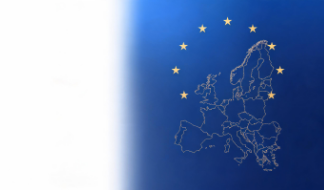
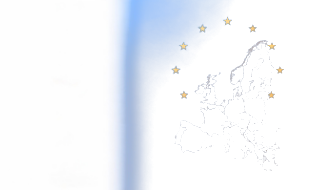
Hero map: transparent background, seamless on gradient

diff --git a/web/assets/css/styles.css b/web/assets/css/styles.css
@@ -30,7 +30,7 @@ img{max-width:100%}
 
 /* hero */
 .hero{background:linear-gradient(135deg,var(--eu-blue) 0%,var(--eu-blue-dark) 70%);color:#fff;padding:56px 0 46px;position:relative;overflow:hidden}
-.hero:after{content:"";position:absolute;right:-40px;bottom:-30px;width:min(560px,58%);aspect-ratio:324/190;background-image:url('../img/eu-map.png');background-size:contain;background-repeat:no-repeat;background-position:center;opacity:.8;mix-blend-mode:screen;pointer-events:none}
+.hero:after{content:"";position:absolute;right:-40px;bottom:-30px;width:min(560px,58%);aspect-ratio:324/190;background-image:url('../img/eu-map.png');background-size:contain;background-repeat:no-repeat;background-position:center;opacity:.9;pointer-events:none}
 .hero h1{font-size:clamp(1.8rem,4vw,2.8rem);line-height:1.15;margin:0 0 12px;letter-spacing:-.02em}
 .hero p.sub{font-size:clamp(1rem,1.6vw,1.18rem);max-width:720px;color:#dbe5fb;margin:0 0 26px}
 .hero .eyebrow{display:inline-block;background:rgba(255,255,255,.14);border:1px solid rgba(255,255,255,.24);color:#fff;padding:5px 12px;border-radius:999px;font-size:.78rem;font-weight:700;letter-spacing:.06em;text-transform:uppercase;margin-bottom:16px}
